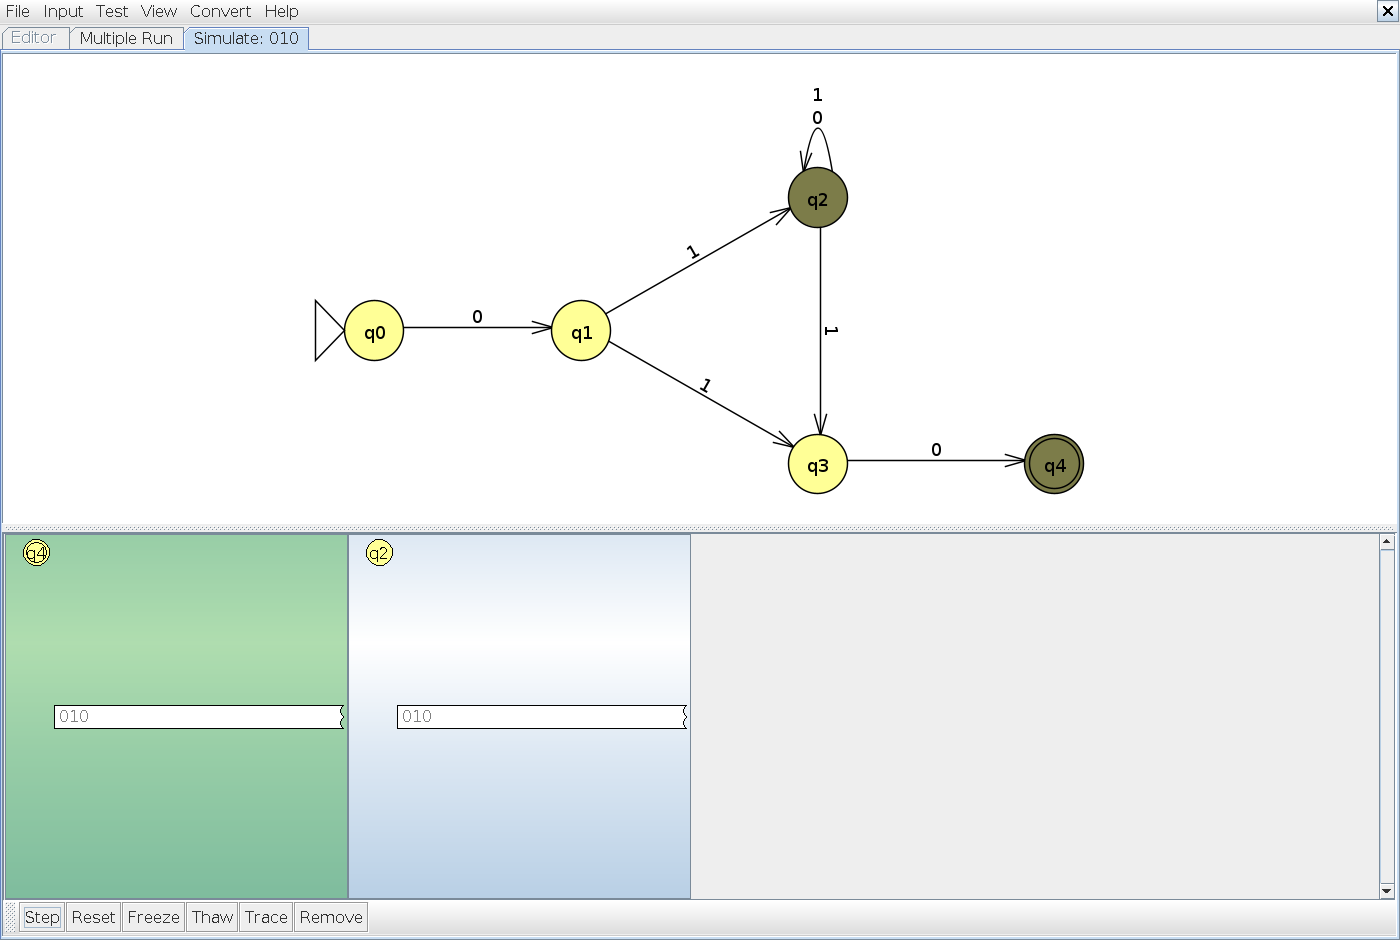
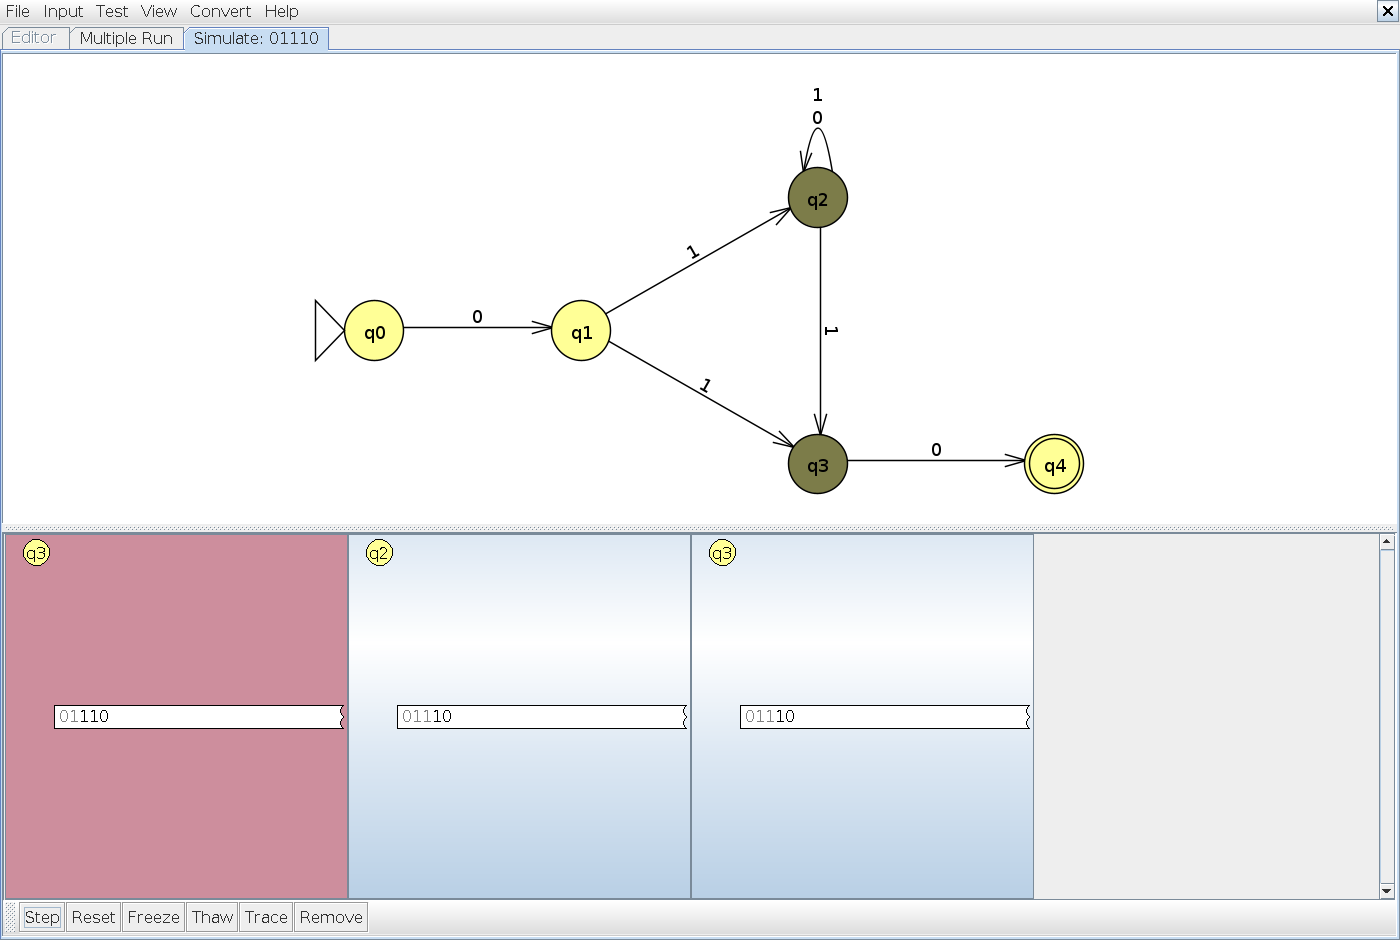
Add handwritten trees and align JFLAP traces with submitted inputs

diff --git a/tools/Capture.java b/tools/Capture.java
@@ -82,7 +82,7 @@ public class Capture {
       });
       shot(tag+"-batch");
       System.out.println(tag+": 17 JFLAP batch results match");
-      String input=n==8?"010":n==11?"1101":n==24?"001":null;
+      String input=n==8?"01110":n==11?"11001":n==24?"0010":null;
       if(input!=null){
         edt(()->{new Steps(machine,frame.getEnvironment(),input).actionPerformed(new ActionEvent(frame,0,"step"));split((Component)frame.getEnvironment().getActive(),false);});
         shot(tag+"-step-00");

diff --git a/README.md b/README.md
@@ -1,8 +1,6 @@
 # NFA Design Exercise 1 — Atalay Doganay
 
-Five NFAs over the alphabet {0,1}, with test strings and JFLAP 7.1 results.
-
-**Before submission:** add the three hand-drawn tree photographs, review the reflection below against your own understanding, and confirm the problem numbering in Teams. Then submit this public repository URL on the assignment page.
+Five NFAs over {0,1}, ordered test files, reports, actual JFLAP results, and three hand-drawn computation trees.
 
 | Problem | Language | Report |
 |---|---|---|
@@ -12,47 +10,57 @@ Five NFAs over the alphabet {0,1}, with test strings and JFLAP 7.1 results.
 | 23 | Odd length or exactly 01 | [n23r.md](n23r.md) |
 | 24 | Odd number of zeros or exactly 001 | [n24r.md](n24r.md) |
 
-Each problem has `nNN.jff`, `nNNt.txt`, and `nNNr.md`. The text files contain eight accepted strings followed by eight rejected strings, with one string per line. The empty string was added separately using JFLAP's Enter Lambda control because Load Inputs skips blank lines.
+Each problem has `nNN.jff`, `nNNt.txt`, and `nNNr.md`. Each test file contains eight accepted strings followed by eight rejected strings, one per line. The empty string is added separately using JFLAP's Enter Lambda control because Load Inputs skips blank lines.
 
-## Testing
+## Validation and handwritten traces
 
-All five files were opened in the official JFLAP 7.1 application. The actual Multiple Run pane produced 85 results in total: 17 per NFA, including the empty string. Every result matched the expected language. The reports contain the actual batch screenshots and, for #08, #11, and #24, initial and step-by-step screenshots from Step with Closure. See [jflap-validation.txt](jflap-validation.txt) for the recorded results.
+All five files were run in the official JFLAP 7.1 application. The 85 Multiple Run results (17 per NFA, including the empty string) matched their expected outcomes. The reports contain the actual NFA and batch screenshots. The independent Python verifier also passed all 40,955 binary inputs of length 0 through 12 across the five NFAs. Finite testing is evidence, not a proof for every input length.
 
-An independent Python checker also passed every binary string of length 0 through 12: 40,955 checks across the five NFAs. This finite test range is additional evidence, not a proof for all input lengths. The explanation in each report gives the reason for the construction.
+The submitted handwritten trees and matching Step with Closure screenshots use:
+
+| Problem | Input | Outcome |
+|---|---|---|
+| 08 | `01110` | Accept |
+| 11 | `11001` | Reject |
+| 24 | `0010` | Accept |
+
+These inputs differ from the earlier study guides. The reports, screenshots, and #11 test file were updated to match the photographs. Problem #24's states were renamed to match the drawing: q1–q4 form the exact-001 branch; q5/q6 track even/odd zero parity. Renaming does not change the language. The original handwritten photos are preserved; missing labels and final-state markings are explicitly clarified beside each photo.
 
 ## Learning summary from the assisted work
 
-### Difficult cases and selection
+### Difficult cases and choices
 
-Problem #08 needs particular care because its prefix and suffix can overlap. The shortest accepted string is `010`, not `0110`. After reading `01`, the NFA needs both q2 (continue scanning) and q3 (the final `10` may have already begun). Leaving out q3 would incorrectly reject `010`.
+Problem #08 requires care because its prefix and suffix may overlap. The shortest accepted string is `010`, not `0110`. After `01`, both q2 and q3 must be possible. The longer handwritten example `01110` also shows why early guesses of the final `10` can fail while another branch survives.
 
-These five problems were selected to cover suffix matching, overlapping conditions, the position of a bit, and two OR constructions. This work focuses on the required five; the remaining problems were not attempted or assessed for difficulty.
+Problem #11 highlights a different trap: reaching a final state while input remains does not accept the complete string. In `11001`, earlier branches reach q2 and stop, while the complete paths end at nonfinal q0 and q1.
 
-### Challenging strings and state tracking
+These five problems cover suffix matching, overlapping conditions, a bit's position, and two OR constructions. The other problems were not attempted or assessed for difficulty in this work.
 
-No unexpected accept/reject results appeared in the recorded runs. Three boundary cases were examined in detail:
+### Challenging strings and corrections
 
-- **#08, `010`:** both q2 and q3 are possible after `01`. The final `0` reaches q4 on one path, so the input is accepted.
-- **#11, `1101`:** a path can reach final state q2 while input remains. That does not accept the complete string. After the last symbol, the live states are q0 and q1; neither is final, so the input is rejected. Dead q2 configurations may remain visible in red in JFLAP.
-- **#24, `001`:** the parity branch rejects because there are two zeros, but the exact-string branch reaches final state q6. One accepting path is sufficient, so the input is accepted. `0011` is rejected, showing that the exception is exactly `001`, not any string beginning with it.
+No unexpected accept/reject outcomes appeared in the recorded runs. The three handwritten examples were examined as challenging computation cases rather than presented as invented failed tests.
 
-The recorded runs matched the predictions for all three cases. The main risk in each example is overlooking a possible branch or accepting before the whole string has been read.
+For #24, `0010` has three zeros and is accepted by the parity branch. The exact-string branch reaches q4 at `001`, but cannot consume the extra `0`. Conversely, the batch case `001` is accepted by the exact-string branch even though its number of zeros is even. One complete accepting path is enough.
 
-### How to avoid similar errors
+Reviewing the handwritten pages revealed omitted transition labels and differences from the earlier guide inputs/state names. The reports identify those notation omissions; the formal JFLAP file and the matching step captures make the intended computation explicit. This is why matching the exact input and the exact state names across drawings and software matters.
 
-Track a set of possible states after every symbol rather than choosing a single path. Take lambda closure before reading the first symbol and after each move. Keep branches that are still possible, remove paths that cannot continue, and only accept if at least one path has consumed the entire input in a final state. Tests should include the empty string, shortest accepted strings, overlapping patterns, and near misses formed by adding or changing one bit. These checks help reveal missed cases in parsers and other state-based systems, as well as in course exercises.
+### Avoiding future errors
 
-Step by State shows individual transitions, including lambda moves as separate steps. Step with Closure automatically includes states reachable by zero or more lambda moves. Lambda consumes no input. Both methods recognize the same language.
+Track every possible state after each symbol, apply lambda closure, and retain all viable branches. Check acceptance only after consuming the entire input. Include empty strings, shortest accepted inputs, overlaps, and one-symbol near misses in tests. In a compiler or other state-based controller, missed branches or premature acceptance can change behavior; explicit transition tables and boundary tests help expose these errors.
 
-### AI help and references
+Step by State exposes individual transitions, including lambda transitions. Step with Closure includes states reachable through lambda moves automatically. Lambda consumes no input; both simulations recognize the same language.
 
-ChatGPT/Codex was used to prepare and explain the NFAs, create test cases, check JFLAP input conventions, run JFLAP through UI automation, capture its results, and draft these reports. The explanations and recorded results above describe that assisted work. The student's own tree drawings are still required.
+### Assistance and references
 
-The following supplied repositories were used as references for problem statements and organization. Their images, hand-drawn trees, and personal reflections were not reused. The NFA files and tests in this repository were prepared separately; standard solutions may naturally use similar constructions.
+ChatGPT/Codex helped construct and explain the NFAs, prepare tests, run JFLAP through UI automation, capture results, and draft reports. Atalay supplied the handwritten photographs. The supplied class repositories informed problem statements, organization, and drawing examples; their image files and personal reflections are not submitted as Atalay's work. Standard NFA constructions may naturally resemble one another.
 
-- [Matthew's examples](https://github.com/c50-31-26F/Matthew_Sychareun_NFA_Design_Exercise_1): statements for #08, #11, #23, and #24.
-- [Elliot's examples](https://github.com/esb5192/NFA-design-exercises-1): statement for #07 and report organization.
+- [Matthew's examples](https://github.com/c50-31-26F/Matthew_Sychareun_NFA_Design_Exercise_1): problem statements and handwritten-tree examples.
+- [Elliot's examples](https://github.com/esb5192/NFA-design-exercises-1): problem #07 and report organization.
 - [Robert's examples](https://github.com/RobertSotelo/NFA_design_exercises_1): repository organization.
-- [JFLAP](https://www.jflap.org/): application used for the captured results.
+- [JFLAP](https://www.jflap.org/): application used for the results.
 
[2 lines of base64/hex data omitted]
+
+## Before submitting
+
+Confirm the five problem statements/numbers against Teams and review this learning summary against your own understanding. Submit the public repository URL on the assignment page; publishing on GitHub does not itself submit to the course.

diff --git a/n24r.md b/n24r.md
@@ -8,9 +8,9 @@ Statement transcribed from [a supplied reference](https://github.com/c50-31-26F/
 
 ![NFA open in JFLAP 7.1](images/n24-jflap-nfa.png)
 
-The upper branch tracks the parity of the number of 0s: q1 means even, q2 means odd, and 1 leaves the parity unchanged. The lower branch accepts exactly 001. A complete accepting path on either branch is enough.
+The upper branch q1 → q2 → q3 → q4 accepts exactly 001. The lower branch tracks zero parity: q5 means even and q6 means odd; reading 1 leaves the parity unchanged. The start state has lambda transitions to q1 and q5. A complete accepting path on either branch is enough. State names were aligned with the submitted drawing; the recognized language is unchanged.
 
-Start state: q0. Accepting states: q2, q6. Unlisted transitions have no destination; that computation path stops.
+Start state: q0. Accepting states: q4, q6. Unlisted transitions have no destination; that computation path stops.
 
 ## Tests and expected results
 
@@ -42,28 +42,37 @@ The actual JFLAP 7.1 Multiple Run completed all 17 tests: 8 accepted strings, 8 
 
 ![JFLAP Multiple Run results](images/n24-batch.png)
 
-## Computation exercise: `001`
+## Hand-drawn computation: `0010`
 
 Expected result: **Accept**.
 
-001 has two zeros, so the parity branch rejects, but the exact-string branch accepts. OR requires only one accepting path. The nearby string 0011 must reject. The recorded JFLAP result matched the expected result.
+There are three zeros, so the parity branch accepts. The exact-001 branch reaches q4 after 001 but cannot consume the final 0. This reverses which branch accepts compared with the separate batch case 001.
 
-![Computation-tree study guide](images/n24-tree-guide.png)
+![Atalay's hand-drawn computation tree for 0010](images/n24-hand-tree.jpg)
+
+This is the original photograph supplied by the student, preserved without changing its handwritten content. The drawing follows the supplied class examples. Its input and state names are matched by the JFLAP captures below.
+
+### Reading and correcting the handwritten notation
+
+The unlabelled split from q0 consists of two ε (lambda) moves; neither consumes a bit. The complete input traced is 0010. The state names follow the photograph: q1–q4 are the exact-001 path; q5 tracks an even number of zeros and q6 tracks an odd number. q4 and q6 are accepting states. Both copies of the q5 → q6 move read 0. The report and JFLAP file supply the formal transition and accepting-state markings where handwriting is incomplete.
+
+A cross denotes a stopped or rejecting path. A check denotes a path that has consumed the entire input in a final state. The input label, missing transition labels, and accepting states are made explicit here so the photographed tree can be checked against the formal NFA.
 
 ### State sets after each input symbol
 
-These use lambda closure at the start and after each symbol. Different paths can reach the same state; the set lists that state once.
+These sets include lambda closure at the start and after every consumed bit. JFLAP may also display dead configurations in red; those are excluded from the active-state sets.
 
 | Symbols consumed | Active states | Remaining input |
 |---|---|---|
-| `ε` | {q0, q1, q3} | `001` |
-| `0` | {q2, q4} | `01` |
-| `00` | {q1, q5} | `1` |
-| `001` | {q1, q6} | `ε` |
+| `ε` | {q0, q1, q5} | `0010` |
+| `0` | {q2, q6} | `010` |
+| `00` | {q3, q5} | `10` |
+| `001` | {q4, q5} | `0` |
+| `0010` | {q6} | `ε` |
 
-### JFLAP state transitions
+### Matching JFLAP Step with Closure screenshots
 
-These are actual JFLAP 7.1 Step with Closure captures. Each numbered step reads one bit. JFLAP can retain dead configurations in red; the active-state table above excludes those dead paths. A green configuration accepts only when its input is exhausted.
+These are actual JFLAP 7.1 screenshots for the same input as the handwritten tree.
 
 **Initial configurations**
 
@@ -81,6 +90,7 @@ These are actual JFLAP 7.1 Step with Closure captures. Each numbered step reads 
 
 ![After reading `001`](images/n24-step-03.png)
 
-### Hand-drawn computation tree — photo still needed
+**After reading `0010`**
 
-Draw the tree for `001` on paper, using the guide and state table above. Label each node `state | remaining input`, include every branch, and mark the terminal outcomes. Photograph your drawing and save it as `images/n24-hand-tree.jpg`. Replace this paragraph with the photograph before submission. The generated guide is study material and is not a hand-drawn photograph.
+![After reading `0010`](images/n24-step-04.png)
+

diff --git a/n11r.md b/n11r.md
@@ -33,7 +33,7 @@ Load `n11t.txt` through **Input → Multiple Run → Load Inputs**. It contains 
 | `100` | Reject | Rejected boundary / near miss |
 | `101` | Reject | Rejected boundary / near miss |
 | `1100` | Reject | Rejected boundary / near miss |
-| `1101` | Reject | Rejected boundary / near miss |
+| `11001` | Reject | Rejected boundary / near miss |
 | ε (add with Enter Lambda/Epsilon) | Reject | Empty input |
 
 ## JFLAP batch results
@@ -42,29 +42,38 @@ The actual JFLAP 7.1 Multiple Run completed all 17 tests: 8 accepted strings, 8 
 
 ![JFLAP Multiple Run results](images/n11-batch.png)
 
-## Computation exercise: `1101`
+## Hand-drawn computation: `11001`
 
 Expected result: **Reject**.
 
-Reaching q2 before the input ends does not accept the whole string. For 1101 the second-to-last bit is 0, so every complete path rejects. The recorded JFLAP result matched the expected result.
+The second-to-last bit is 0. Earlier paths reach final state q2 with unread input and then stop; the surviving complete paths end at q0 and q1.
 
-![Computation-tree study guide](images/n11-tree-guide.png)
+![Atalay's hand-drawn computation tree for 11001](images/n11-hand-tree.jpg)
+
+This is the original photograph supplied by the student, preserved without changing its handwritten content. The drawing follows the supplied class examples. Its input and state names are matched by the JFLAP captures below.
+
+### Reading and correcting the handwritten notation
+
+The complete input traced is 11001, including both consecutive zeros. The final two branches from q0 both read 1. q2 is the accepting state, but a visit to q2 before the input ends does not accept the whole string.
+
+A cross denotes a stopped or rejecting path. A check denotes a path that has consumed the entire input in a final state. The input label, missing transition labels, and accepting states are made explicit here so the photographed tree can be checked against the formal NFA.
 
 ### State sets after each input symbol
 
-These use lambda closure at the start and after each symbol. Different paths can reach the same state; the set lists that state once.
+These sets include lambda closure at the start and after every consumed bit. JFLAP may also display dead configurations in red; those are excluded from the active-state sets.
 
 | Symbols consumed | Active states | Remaining input |
 |---|---|---|
-| `ε` | {q0} | `1101` |
-| `1` | {q0, q1} | `101` |
-| `11` | {q0, q1, q2} | `01` |
-| `110` | {q0, q2} | `1` |
-| `1101` | {q0, q1} | `ε` |
+| `ε` | {q0} | `11001` |
+| `1` | {q0, q1} | `1001` |
+| `11` | {q0, q1, q2} | `001` |
+| `110` | {q0, q2} | `01` |
+| `1100` | {q0} | `1` |
+| `11001` | {q0, q1} | `ε` |
 
-### JFLAP state transitions
+### Matching JFLAP Step with Closure screenshots
 
-These are actual JFLAP 7.1 Step with Closure captures. Each numbered step reads one bit. JFLAP can retain dead configurations in red; the active-state table above excludes those dead paths. A green configuration accepts only when its input is exhausted.
+These are actual JFLAP 7.1 screenshots for the same input as the handwritten tree.
 
 **Initial configurations**
 
@@ -82,16 +91,16 @@ These are actual JFLAP 7.1 Step with Closure captures. Each numbered step reads 
 
 ![After reading `110`](images/n11-step-03.png)
 
-**After reading `1101`**
+**After reading `1100`**
 
-![After reading `1101`](images/n11-step-04.png)
+![After reading `1100`](images/n11-step-04.png)
+
+**After reading `11001`**
+
+![After reading `11001`](images/n11-step-05.png)
 
 **Completion check: all paths reject**
 
-This extra click consumes no additional input; it lets JFLAP mark the exhausted, non-final configurations as rejected.
+This final click consumes no input; it marks the exhausted nonfinal configurations as rejected.
 
-![JFLAP final rejection](images/n11-step-final.png)
-
-### Hand-drawn computation tree — photo still needed
-
-Draw the tree for `1101` on paper, using the guide and state table above. Label each node `state | remaining input`, include every branch, and mark the terminal outcomes. Photograph your drawing and save it as `images/n11-hand-tree.jpg`. Replace this paragraph with the photograph before submission. The generated guide is study material and is not a hand-drawn photograph.
+![Final rejection](images/n11-step-final.png)

diff --git a/n08r.md b/n08r.md
@@ -42,28 +42,38 @@ The actual JFLAP 7.1 Multiple Run completed all 17 tests: 8 accepted strings, 8 
 
 ![JFLAP Multiple Run results](images/n08-batch.png)
 
-## Computation exercise: `010`
+## Hand-drawn computation: `01110`
 
 Expected result: **Accept**.
 
-The prefix and suffix can overlap: 010 must be accepted. Both q2 and q3 must be active after reading 01. The recorded JFLAP result matched the expected result.
+The early guesses of the final 10 stop on another 1. The branch that guesses the last 1 reaches q4 after the final 0.
 
-![Computation-tree study guide](images/n08-tree-guide.png)
+![Atalay's hand-drawn computation tree for 01110](images/n08-hand-tree.jpg)
+
+This is the original photograph supplied by the student, preserved without changing its handwritten content. The drawing follows the supplied class examples. Its input and state names are matched by the JFLAP captures below.
+
+### Reading and correcting the handwritten notation
+
+Some arrow labels are omitted in the photograph. In the NFA, q1 → q2 reads 1. In the tree, the last move q3 → q4 reads 0. The complete input traced is 01110. q4 is the accepting state.
+
+A cross denotes a stopped or rejecting path. A check denotes a path that has consumed the entire input in a final state. The input label, missing transition labels, and accepting states are made explicit here so the photographed tree can be checked against the formal NFA.
 
 ### State sets after each input symbol
 
-These use lambda closure at the start and after each symbol. Different paths can reach the same state; the set lists that state once.
+These sets include lambda closure at the start and after every consumed bit. JFLAP may also display dead configurations in red; those are excluded from the active-state sets.
 
 | Symbols consumed | Active states | Remaining input |
 |---|---|---|
-| `ε` | {q0} | `010` |
-| `0` | {q1} | `10` |
-| `01` | {q2, q3} | `0` |
-| `010` | {q2, q4} | `ε` |
+| `ε` | {q0} | `01110` |
+| `0` | {q1} | `1110` |
+| `01` | {q2, q3} | `110` |
+| `011` | {q2, q3} | `10` |
+| `0111` | {q2, q3} | `0` |
+| `01110` | {q2, q4} | `ε` |
 
-### JFLAP state transitions
+### Matching JFLAP Step with Closure screenshots
 
-These are actual JFLAP 7.1 Step with Closure captures. Each numbered step reads one bit. JFLAP can retain dead configurations in red; the active-state table above excludes those dead paths. A green configuration accepts only when its input is exhausted.
+These are actual JFLAP 7.1 screenshots for the same input as the handwritten tree.
 
 **Initial configurations**
 
@@ -77,10 +87,15 @@ These are actual JFLAP 7.1 Step with Closure captures. Each numbered step reads 
 
 ![After reading `01`](images/n08-step-02.png)
 
-**After reading `010`**
+**After reading `011`**
 
-![After reading `010`](images/n08-step-03.png)
+![After reading `011`](images/n08-step-03.png)
 
-### Hand-drawn computation tree — photo still needed
+**After reading `0111`**
 
-Draw the tree for `010` on paper, using the guide and state table above. Label each node `state | remaining input`, include every branch, and mark the terminal outcomes. Photograph your drawing and save it as `images/n08-hand-tree.jpg`. Replace this paragraph with the photograph before submission. The generated guide is study material and is not a hand-drawn photograph.
+![After reading `0111`](images/n08-step-04.png)
+
+**After reading `01110`**
+
+![After reading `01110`](images/n08-step-05.png)
+
